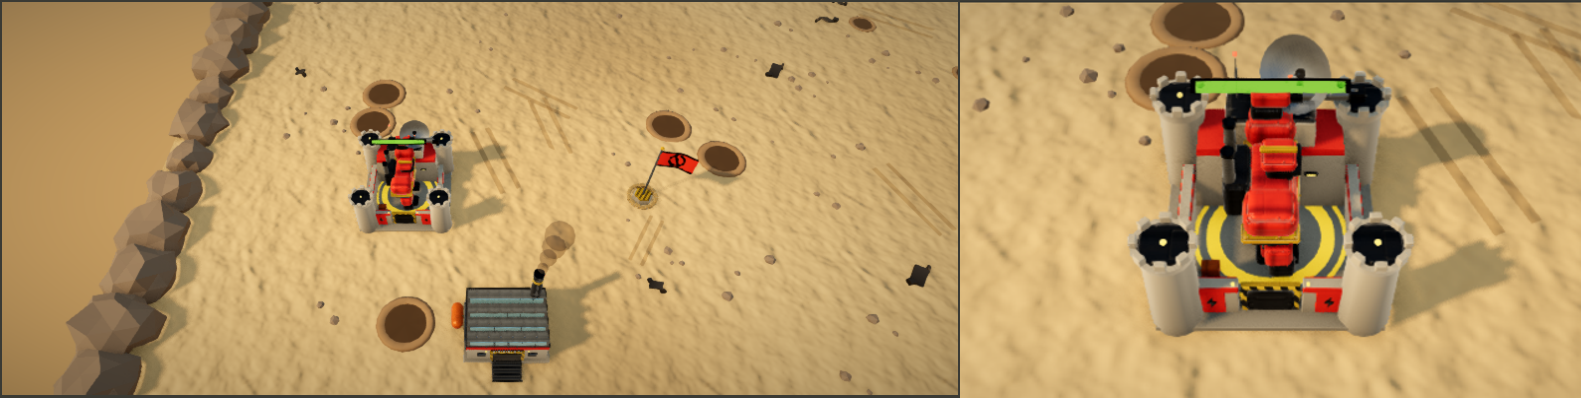
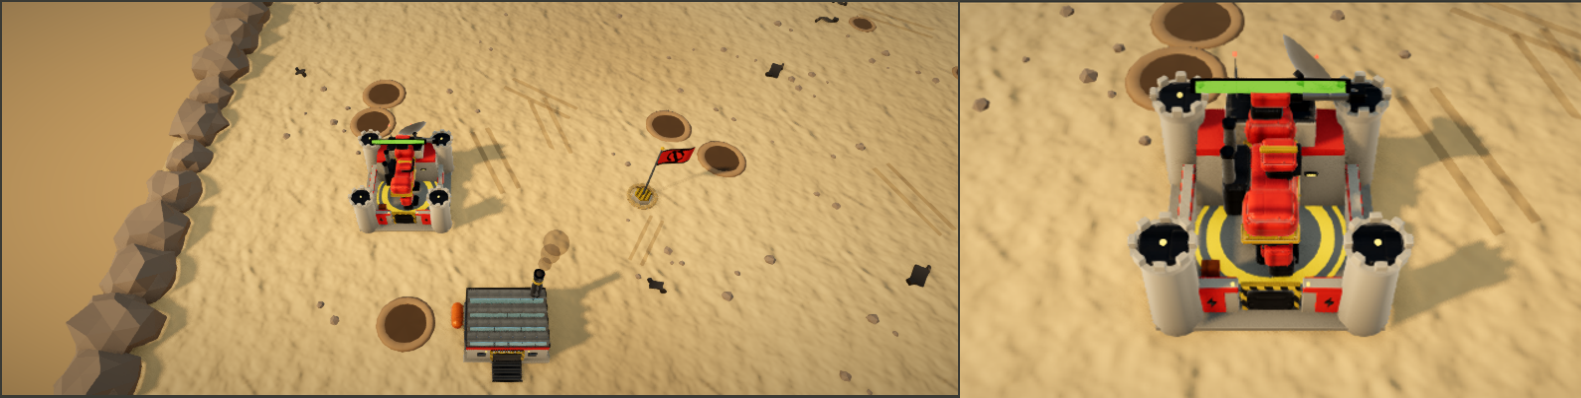
Fuse Front: building review fixes
The flag banner hangs from FLAG_CLOTH under the finial instead of over the
pole top. Buildings turn far 1.8 times further out than units, since they
are big on screen. The robot factory's health bar sits over its chimney.
The atlas test checks every label's glyph box stays in its own cell.

diff --git a/games/fuse-front/src/render3d/field.ts b/games/fuse-front/src/render3d/field.ts
@@ -49,7 +49,6 @@ import {
   recoil,
   ruinModel,
   setDetail,
-  shade,
   treadPhase,
   unitModel,
   waveCloth,
@@ -60,7 +59,7 @@ import {
 import type { Detail } from "./kit/rig.js";
 import { ROBOT_LEGS, detailAt, robotModel, robotPart, type RobotKind } from "./kit/units.js"; // prettier-ignore
 import { HERO_LEGS } from "./kit/heroes.js";
-import { conceptRuin, flagModel } from "./kit/buildings.js";
+import { FLAG_CLOTH, conceptRuin, flagModel } from "./kit/buildings.js";
 import { bannerTexture } from "./kit/decals.js";
 import { buildProps } from "./props.js";
 import * as rig from "./rig.js";
@@ -120,6 +119,8 @@ const AIM_HOLD = 80;
 const MAX_PENDING = 512;
 /** Heroes draw a size up from their models so they stand over the line at the default zoom. */
 const HERO_SCALE = 1.45;
+/** How many times further from the camera than a unit a building draws its far model. */
+const BUILDING_LOD = 1.8;
 /** Tiles from the camera's target the sun's shadow box reaches at most. */
 const SHADOW_REACH = 96;
 /** Strategic marker radii per tile of camera distance, so they hold their size on screen at any zoom. */
@@ -225,11 +226,8 @@ export class Field3D implements Renderer {
     BuildingKind,
     Record<Detail, BuildingModel> & { ruins: Model[] }
   >();
-  private readonly cloth = new THREE.PlaneGeometry(0.7, 0.45, 10, 1).translate(
-    0.35,
-    1.35,
-    0,
-  );
+  // The banner hangs from the pole just under its finial, out along +x so `waveCloth` keeps its pole edge still.
+  private readonly cloth = new THREE.PlaneGeometry(FLAG_CLOTH.w, FLAG_CLOTH.h, 10, 1).translate(FLAG_CLOTH.w / 2, FLAG_CLOTH.y - FLAG_CLOTH.h / 2, 0); // prettier-ignore
   private readonly clothBase = Float32Array.from(
     this.cloth.getAttribute("position").array,
   );
@@ -671,7 +669,8 @@ export class Field3D implements Renderer {
       node.ruin.visible = dead;
       if (dead) continue;
       const at = node.alive.position, cam = this.camera.position;
-      const detail = detailAt(Math.hypot(at.x - cam.x, at.y - cam.y, at.z - cam.z), this.governor.level, node.detail);
+      // Buildings are big on screen, so they turn far only `BUILDING_LOD` times further out than a unit does.
+      const detail = detailAt(Math.hypot(at.x - cam.x, at.y - cam.y, at.z - cam.z) / BUILDING_LOD, this.governor.level, node.detail);
       if (detail !== node.detail) {
         for (const mesh of node.lods[node.detail]) mesh.visible = false;
         for (const mesh of node.lods[detail]) mesh.visible = true;
@@ -975,7 +974,7 @@ export class Field3D implements Renderer {
     this.matchGroup.add(rockMesh, pebbleMesh, plankMesh, props.group);
 
     this.buildings = world.buildings.map((b) => this.building(b.kind, b.id, b.x + 0.5, standY(world, field, b.x + 0.5, b.y + 0.5), b.y + 0.5));
-    // Every flag's base and pole: one instanced mesh per paint.
+    // Every flag's base and pole: one instanced mesh per paint, at the detail the match starts with (they are small).
     const stand = flagModel(this.governor.level === "low" ? "far" : "near"), at = new THREE.Matrix4();
     for (const part of stand) {
       const mesh = new THREE.InstancedMesh(this.own(part.geometry), this.paints[part.paint], Math.max(1, world.flags.length));

diff --git a/games/fuse-front/src/render3d/kit/buildings.ts b/games/fuse-front/src/render3d/kit/buildings.ts
@@ -183,7 +183,7 @@ function flag(r: Rig): void {
   sandbags(r, 0, 0, 0.95, 0, PI * 2 - 0.3);
 }
 
-/** Concept metres to tiles per building, and where each pivot sits (concept metres). */
+/** Concept metres to tiles per building. */
 const SCALE: Record<BuildingKind | "flag", number> = { fort: 0.19, robotFactory: 0.2, vehicleFactory: 0.2, turret: 0.19, flag: 0.3 }; // prettier-ignore
 const BUILDERS: Record<BuildingKind, (r: Rig) => void> = { fort, robotFactory, vehicleFactory, turret }; // prettier-ignore
 
@@ -199,14 +199,14 @@ export function conceptBuilding(kind: BuildingKind, detail: Detail = "near"): Bu
   const s = SCALE[kind], body = built(s, detail, BUILDERS[kind]);
   if (kind === "fort") return { body, pivot: { model: built(s, detail, dish, -1, 1), x: 1.2 * s, y: 7.2 * s, z: -3 * s, aims: false }, height: 1.2 };
   if (kind === "turret") return { body, pivot: { model: built(s, detail, turretHead, -0.3, 0.6), x: 0, y: 1.5 * s, z: 0, aims: true }, height: 0.6 };
-  if (kind === "robotFactory") return { body, smoke: [(RF.w / 2 - 1) * s, (RF.h + 4.8) * s, (-RF.d / 2 + 0.9) * s], height: (RF.h + 0.7) * s };
+  if (kind === "robotFactory") return { body, smoke: [(RF.w / 2 - 1) * s, (RF.h + 4.8) * s, (-RF.d / 2 + 0.9) * s], height: (RF.h + 4.8) * s };
   return { body, height: (VF.h + 0.9 + (VF.w / 2) * (1 - Math.cos(VF.arc))) * s };
 }
 
 /** The flag's base and pole (its cloth is drawn and waved on its own). */
 export const flagModel = (detail: Detail = "near"): Model => built(SCALE.flag, detail, flag); // prettier-ignore
-/** Where the flag's cloth hangs from the pole: its top edge's height, in tiles. */
-export const FLAG_CLOTH = { y: 4.6 * SCALE.flag, w: 0.7, h: 0.45 };
+/** The flag's cloth: its top edge's height on the pole (just under the finial), its width and its height, in tiles. */
+export const FLAG_CLOTH = { y: 5.2 * SCALE.flag, w: 0.7, h: 0.45 };
 
 /** The fort's ruin: broken tower stumps, the keep caved in to slabs, rubble and bent rebar. */
 // prettier-ignore

diff --git a/games/fuse-front/tests/models.test.ts b/games/fuse-front/tests/models.test.ts
@@ -107,7 +107,7 @@ test("buildings: the fort's radar spins, the turret's head aims, the chimney smo
   const fort = buildingModel("fort"), turret = buildingModel("turret"), robots = buildingModel("robotFactory"), motors = buildingModel("vehicleFactory");
   assert.equal(fort.pivot?.aims, false);
   assert.equal(turret.pivot?.aims, true);
-  assert.ok(robots.smoke && robots.smoke[1] > robots.height, "smoke leaves the chimney top");
+  assert.ok(robots.smoke && Math.abs(robots.smoke[1] - size(robots.body).y) < 0.05 && robots.height >= robots.smoke[1], "smoke leaves the chimney top, under the health bar");
   for (const factory of [robots, motors]) for (const paint of ["hazard", "decal", "team"] as const) assert.ok(factory.body.some((p) => p.paint === paint), paint);
   assert.ok(robots.body.some((p) => p.paint === "glass") && motors.body.some((p) => p.paint === "gold"), "saw-tooth glazing; the gantry crane");
   assert.ok(turret.body.some((p) => p.paint === "sand") && turret.pivot!.model.some((p) => p.paint === "team"), "sandbags; team armour on the head");

diff --git a/games/fuse-front/tests/robot-kit.test.ts b/games/fuse-front/tests/robot-kit.test.ts
@@ -118,6 +118,12 @@ test("squad numbers come from one shared pixel atlas", () => {
   // Two-glyph labels take a cell of 8 texels; a sign takes as many as its letters need.
   assert.equal(atlas.image.width, 8 * 4 + 24 + 40);
   assert.deepEqual(LABELS.slice(-2), ["ROBOTS", "MOTOR POOL"]);
+  // Each label's glyph box stays inside its own cell, in order, so no stencil bleeds into the next.
+  LABELS.reduce((end, label) => {
+    const [a, b] = labelUv(label);
+    assert.ok(a >= end - 1e-9 && b > a && b <= 1, label);
+    return a + (Math.ceil((label.length * 4) / 8) * 8) / 96;
+  }, 0);
   assert.equal(labelMask("MOTOR POOL").filter(Boolean).length, 12 + 12 + 7 + 12 + 10 + 0 + 10 + 12 + 12 + 7);
   assert.ok(paints.decal.map instanceof THREE.DataTexture && paints.decal.alphaTest > 0);
   // "07": the zero's hole is dark, the seven's top bar is lit.
